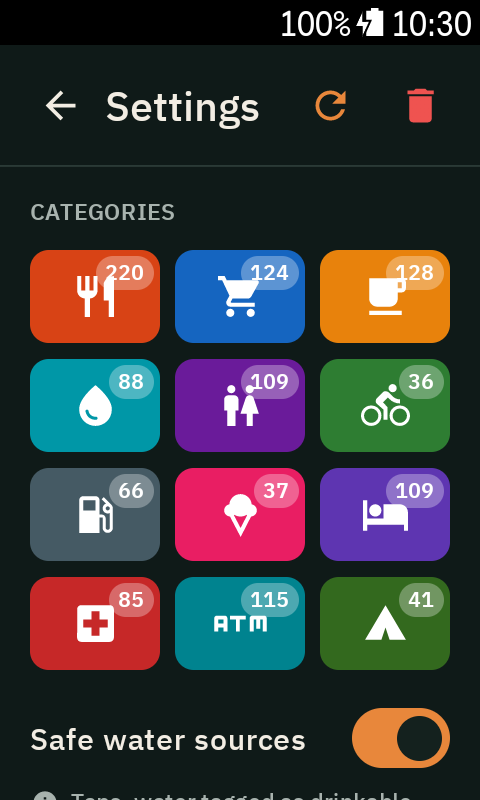
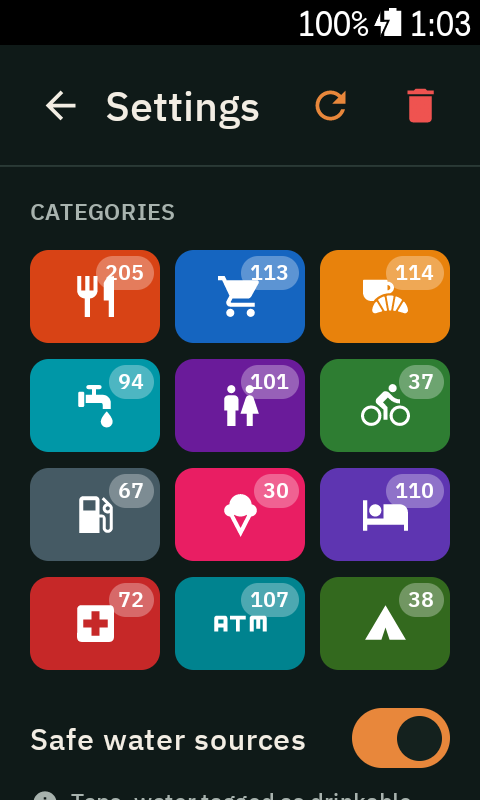
docs: fix README region bundling and category label (#108)
Nothing ships inside the app (SEED_ASSET=""); the rider downloads every
region from the picker. Drop the duplicate 'Downloadable regions' row,
correct the 'How it works' and build sections that claimed a bundled
Germany seed, relabel the category to Café & Bakery, and refresh the
categories screenshot.

diff --git a/README.md b/README.md
@@ -61,7 +61,7 @@ live.
   <tr>
     <td width="50%" valign="top">
       <h3>🗂 12 categories</h3>
-      Restaurants, Supermarkets, Café&nbsp;&amp;&nbsp;Bar, Water, Toilets, Bike&nbsp;shops,
+      Restaurants, Supermarkets, Café&nbsp;&amp;&nbsp;Bakery, Water, Toilets, Bike&nbsp;shops,
       Fuel&nbsp;stations, Ice&nbsp;Cream, Hotels, Pharmacies, ATMs, and Campgrounds. Toggle
       any of them on or off on the fly.
     </td>
@@ -77,16 +77,6 @@ live.
       <h3>💧 Safe water sources</h3>
       Shows drinkable water by default, hiding fountains and springs of unknown quality unless
       you want them.
-    </td>
-  </tr>
-  <tr>
-    <td width="50%" valign="top">
-      <h3>🌍 Downloadable regions</h3>
-      Ships with a bundled seed and downloads more in-app: a single Bundesland, or whole
-      countries across Europe and North America.
-    </td>
-    <td width="50%" valign="top" align="center">
-      <img src="docs/media/02-regions-download.gif" alt="Browsing and downloading a region in-app" width="280">
     </td>
   </tr>
   <tr>
@@ -123,10 +113,11 @@ live.
   <tr>
     <td width="50%" valign="top">
       <h3>🌍 Regional coverage</h3>
-      Download the regions you ride. Europe, the USA, and Canada are supported for now.
+      Download the regions you ride, right on the device. Europe, the USA, and Canada are
+      supported for now.
     </td>
     <td width="50%" valign="top" align="center">
-      <img src="docs/media/regions.png" alt="Regions screen with installed regions and place counts" width="280">
+      <img src="docs/media/02-regions-download.gif" alt="Browsing and downloading a region in-app" width="280">
     </td>
   </tr>
 </table>
@@ -148,12 +139,11 @@ flood the map while a quiet stretch still shows what's there. The only network c
 optional, on-demand Google Places and Wikipedia lookups; they route device to provider through
 the Karoo HTTP bridge, so they work over a paired phone, not just WiFi.
 
-POI data comes from [OpenStreetMap](https://www.openstreetmap.org/). The bundled database is
-generated offline by **`extension/tools/poi-db/`** (downloads a regional extract, filters to
-our POI tags, loads a spatial SQLite) and baked into the app as an asset the extension seeds
-on first run. The bundled seed ships **all of Germany**; riders can download other regions
-in-app (a single Bundesland, or other countries) from the region picker, which fetches a
-compact per-region file and installs it on-device.
+POI data comes from [OpenStreetMap](https://www.openstreetmap.org/). The per-region databases
+are generated offline by **`extension/tools/poi-db/`** (downloads a regional extract, filters
+to our POI tags, loads a spatial SQLite). Nothing ships inside the app: on first run the rider
+picks regions from the region picker, which fetches a compact per-region file (a single
+Bundesland, or whole countries) and installs it on-device.
 
 See [FOUNDATION.md](FOUNDATION.md) for the full architecture and design.
 
@@ -201,8 +191,8 @@ The bundled POI database is built offline (needs
 ```sh
 cd extension/tools/poi-db
 npm install
-# Rebuilds the bundled Germany seed → app/src/main/assets/pois-germany.sqlite
-npm run build:seed
+# Build the per-region files the in-app picker downloads
+npm run build:regions
 # Or build a single region for a quick test:
 OSM_REGION=europe/germany/baden-wuerttemberg npm run build:poi-db
 ```
